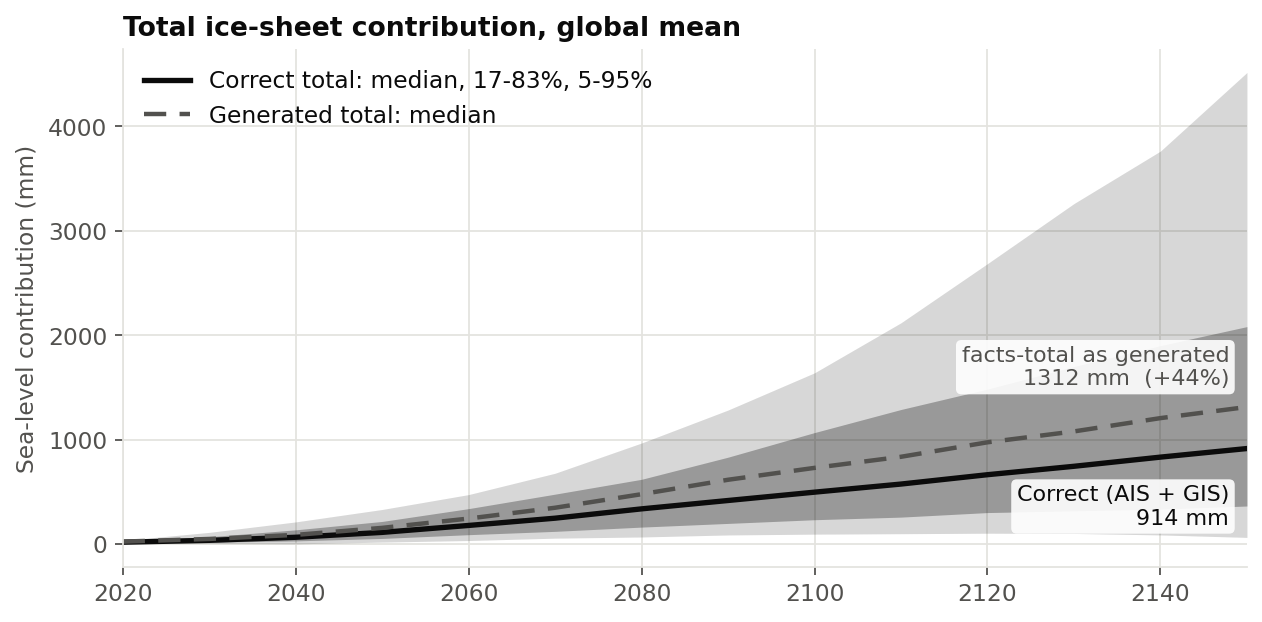
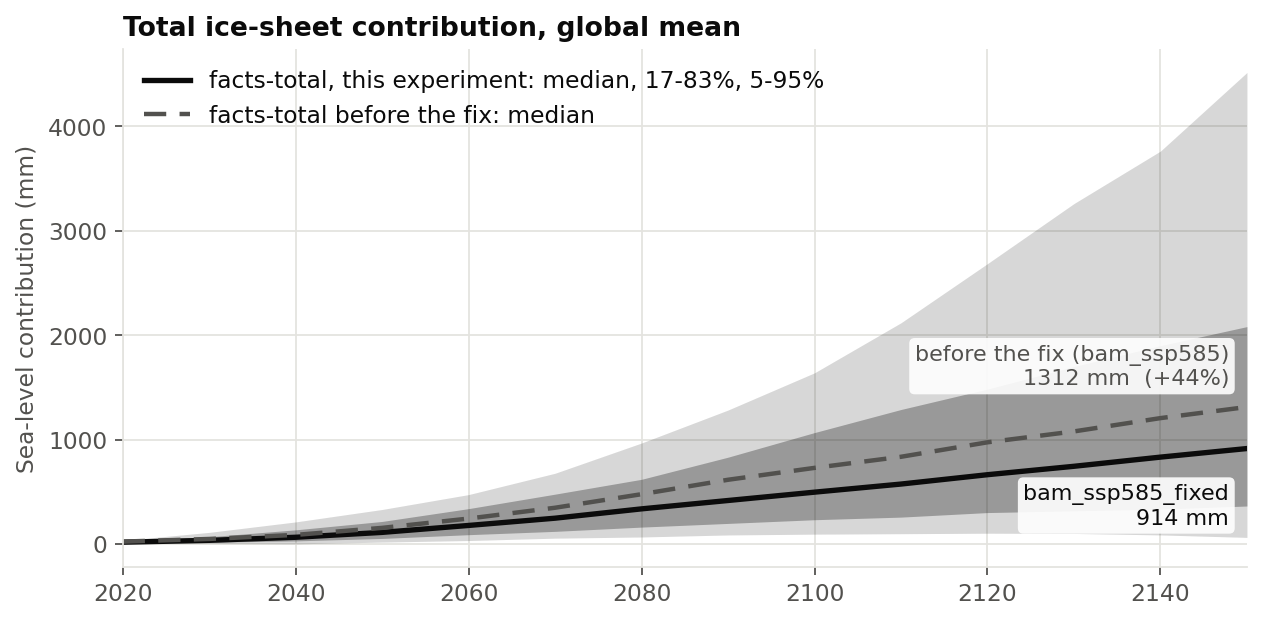
Point results notebook at the fixed experiment; refresh total figure and README
The notebook reads bam_ssp585_fixed by default and shows the total before and
after the pass_to_total registry fix. README now records the confirmed cause,
the fix and the fixed experiment.

Changed region(s): [[0.1545, 0.0916, 0.649, 0.2138], [0.7108, 0.5193, 0.9889, 0.6415], [0.8035, 0.7637, 0.9889, 0.8553]]

diff --git a/notebooks/README.md b/notebooks/README.md
@@ -145,7 +145,7 @@ APPTAINER_TMPDIR=$D APPTAINER_CACHEDIR=$D/cache PROOT_TMP_DIR=$D/proot \
 |---|---|---|---|
 | 1 | fair-temperature (`ghcr.io/fact-sealevel/fair-temperature:0.2.1`) | `module_specific_input_data/fair-temperature/{rcmip,parameters}` | `fair-temperature/{climate,gsat,oceantemp,ohc}.nc` |
 | 2 | bamber19-icesheets (`ghcr.io/fact-sealevel/bamber19-icesheets:0.2.0`) | `fair-temperature/climate.nc`, `module_specific_input_data/bamber19-icesheets/SLRProjections190726core_SEJ_full.mat`, `shared_input_data/{FPRINT,location.lst}` | `bamber19-icesheets/{AIS,EAIS,WAIS,GIS}-{gslr,lslr}.nc` |
-| 3 | facts-total (`ghcr.io/fact-sealevel/facts-total:0.2.1`), one global + one local job | all 8 `bamber19-icesheets/*.nc` files | `facts-total/all-modules_{global,local}_total.nc` (**double-counts Antarctica, see below**) |
+| 3 | facts-total (`ghcr.io/fact-sealevel/facts-total:0.2.1`), one global + one local job | all 8 `bamber19-icesheets/*.nc` files | `facts-total/all-modules_{global,local}_total.nc` (**double-counts Antarctica in `bam_ssp585`; fixed in `bam_ssp585_fixed`, see below**) |
 
 Parameters: ssp585, years 2020-2150 step 10 (14 steps), baseyear 2005, nsamps 500, pipeline-id bam001, seeds 2314 (fair) / 1423 (bamber).
 Output shape: `sea_level_change(samples=500, years=14, locations=1)` in mm; AIS = EAIS + WAIS (checked to 0.001 mm).
@@ -163,20 +163,25 @@ SIFs: fair-temperature 200 MB, bamber19-icesheets 165 MB (`apptainer_experiments
 
 ### Results notebook
 [`4_bam_ssp585_viz.ipynb`](4_bam_ssp585_viz.ipynb) reads the netCDF outputs (no containers needed, runs in seconds) and shows: the ssp585 warming
-fan, the three ice-sheet contributions through time, their 2150 distributions, the New York factor per ice sheet, the correct total (AIS + GIS) against the
-generated one, and a run card from `bam_results.json`. It needs `xarray`, `netcdf4`, `matplotlib` and `pandas`; set `FACTS2_WORKSPACE` if the workspace is not at
-`../facts2`, and `FIG_DIR` to also save the PNGs. It is stored without outputs, so run it before viewing. The older `fair_facts_v2_*` / `3_fair_facts_v2_*`
+fan, the three ice-sheet contributions through time, their 2150 distributions, the New York factor per ice sheet, the total before and after the registry fix (the fixed experiment's `facts-total`
+against the original's), and a run card from the experiment's `bam_results.json`. It reads `bam_ssp585_fixed` by default; set `BAM_EXPERIMENT` to read another
+experiment (pointed at `bam_ssp585` it prints a double-count warning). It needs `xarray`, `netcdf4`, `matplotlib` and `pandas`; set `FACTS2_WORKSPACE` if the
+workspace is not at `../facts2`, and `FIG_DIR` to also save the PNGs (saved copies are in `facts2/figures/`). It is stored without outputs, so run it before viewing. The older `fair_facts_v2_*` / `3_fair_facts_v2_*`
 viz notebooks expect the lws / sterodynamics layout under `./data/output` and were not reused.
 
 ### Assumptions / known issues
 - "experiment-ssp585" = `experiments/coupling.ssp585/config.yml`; FACTS2 = `fact-sealevel` org + FEB + per-module containers (not the legacy `facts/` dir).
 - FEB requires a climate step, so fair-temperature is included (as in the reference). `--extremesealevel-step NONE` fails on this branch; omit the flag.
 - `location.lst` is copied from the legacy coupling.ssp585 experiment and holds one site (40.7, -74), so `*-lslr.nc` have 1 location and bamber19 runs in seconds.
-- **facts-total double-counts Antarctica.** FEB passes all four bamber19 outputs (AIS, EAIS, WAIS, GIS) to facts-total, but AIS already equals
-  EAIS + WAIS, so the generated total equals AIS+EAIS+WAIS+GIS exactly. The correct total is AIS + GIS. 2150 global median: 1312 mm generated vs
-  914 mm correct (+44%); New York: 1181 vs 707 mm. The workflow in the config selects modules, not individual outputs, so this cannot be fixed
-  there; the generated script was deliberately not edited. `run_bam.py` reports it as a warning, and notebook 4 plots the correct AIS + GIS total.
-  Likely cause is how the bamber19-icesheets outputs are tagged in the module registry (unconfirmed); worth raising with the FEB/registry maintainers.
+- **facts-total double-counts Antarctica in the original experiment (`bam_ssp585`).** FEB passes all four bamber19 outputs (AIS, EAIS, WAIS, GIS) to
+  facts-total, but AIS already equals EAIS + WAIS, so that total equals AIS+EAIS+WAIS+GIS exactly. The correct total is AIS + GIS. 2150 global median:
+  1312 mm generated vs 914 mm correct (+44%); New York: 1181 vs 707 mm.
+  **Cause (confirmed):** the registry entry for bamber19-icesheets (registry `a085795`) sets no `pass_to_total` on any output, so FEB's default `true`
+  sends all of them to the total. **Fix:** `pass_to_total: false` on the four EAIS/WAIS outputs, as `emulandice-ais` does. The experiment
+  `bam_ssp585_fixed` was regenerated against a locally patched registry clone and its totals equal AIS + GIS (914 / 707 mm); its config and script are
+  committed. Run it with `run_bam.py --experiment apptainer_experiments/bam_ssp585_fixed`. The upstream registry is not fixed yet; the report for the
+  maintainers is `facts2/REPORT_facts_total_double_count.md`. The generated scripts were deliberately not edited, and `run_bam.py` warns when a total
+  double-counts.
 - Without a `workflows:` entry in `experiment-config.yaml`, `generate-apptainer` emits no facts-total stage at all.
 - Local (New York) results are the global results times a constant per ice sheet (EAIS 1.04, WAIS 1.22, GIS 0.44) for all 500 samples.
 - Image pulls need an exec-capable build dir. Here `APPTAINER_TMPDIR`/`APPTAINER_CACHEDIR` pointed at a nonexistent `/explore/.../containers/cache`,
